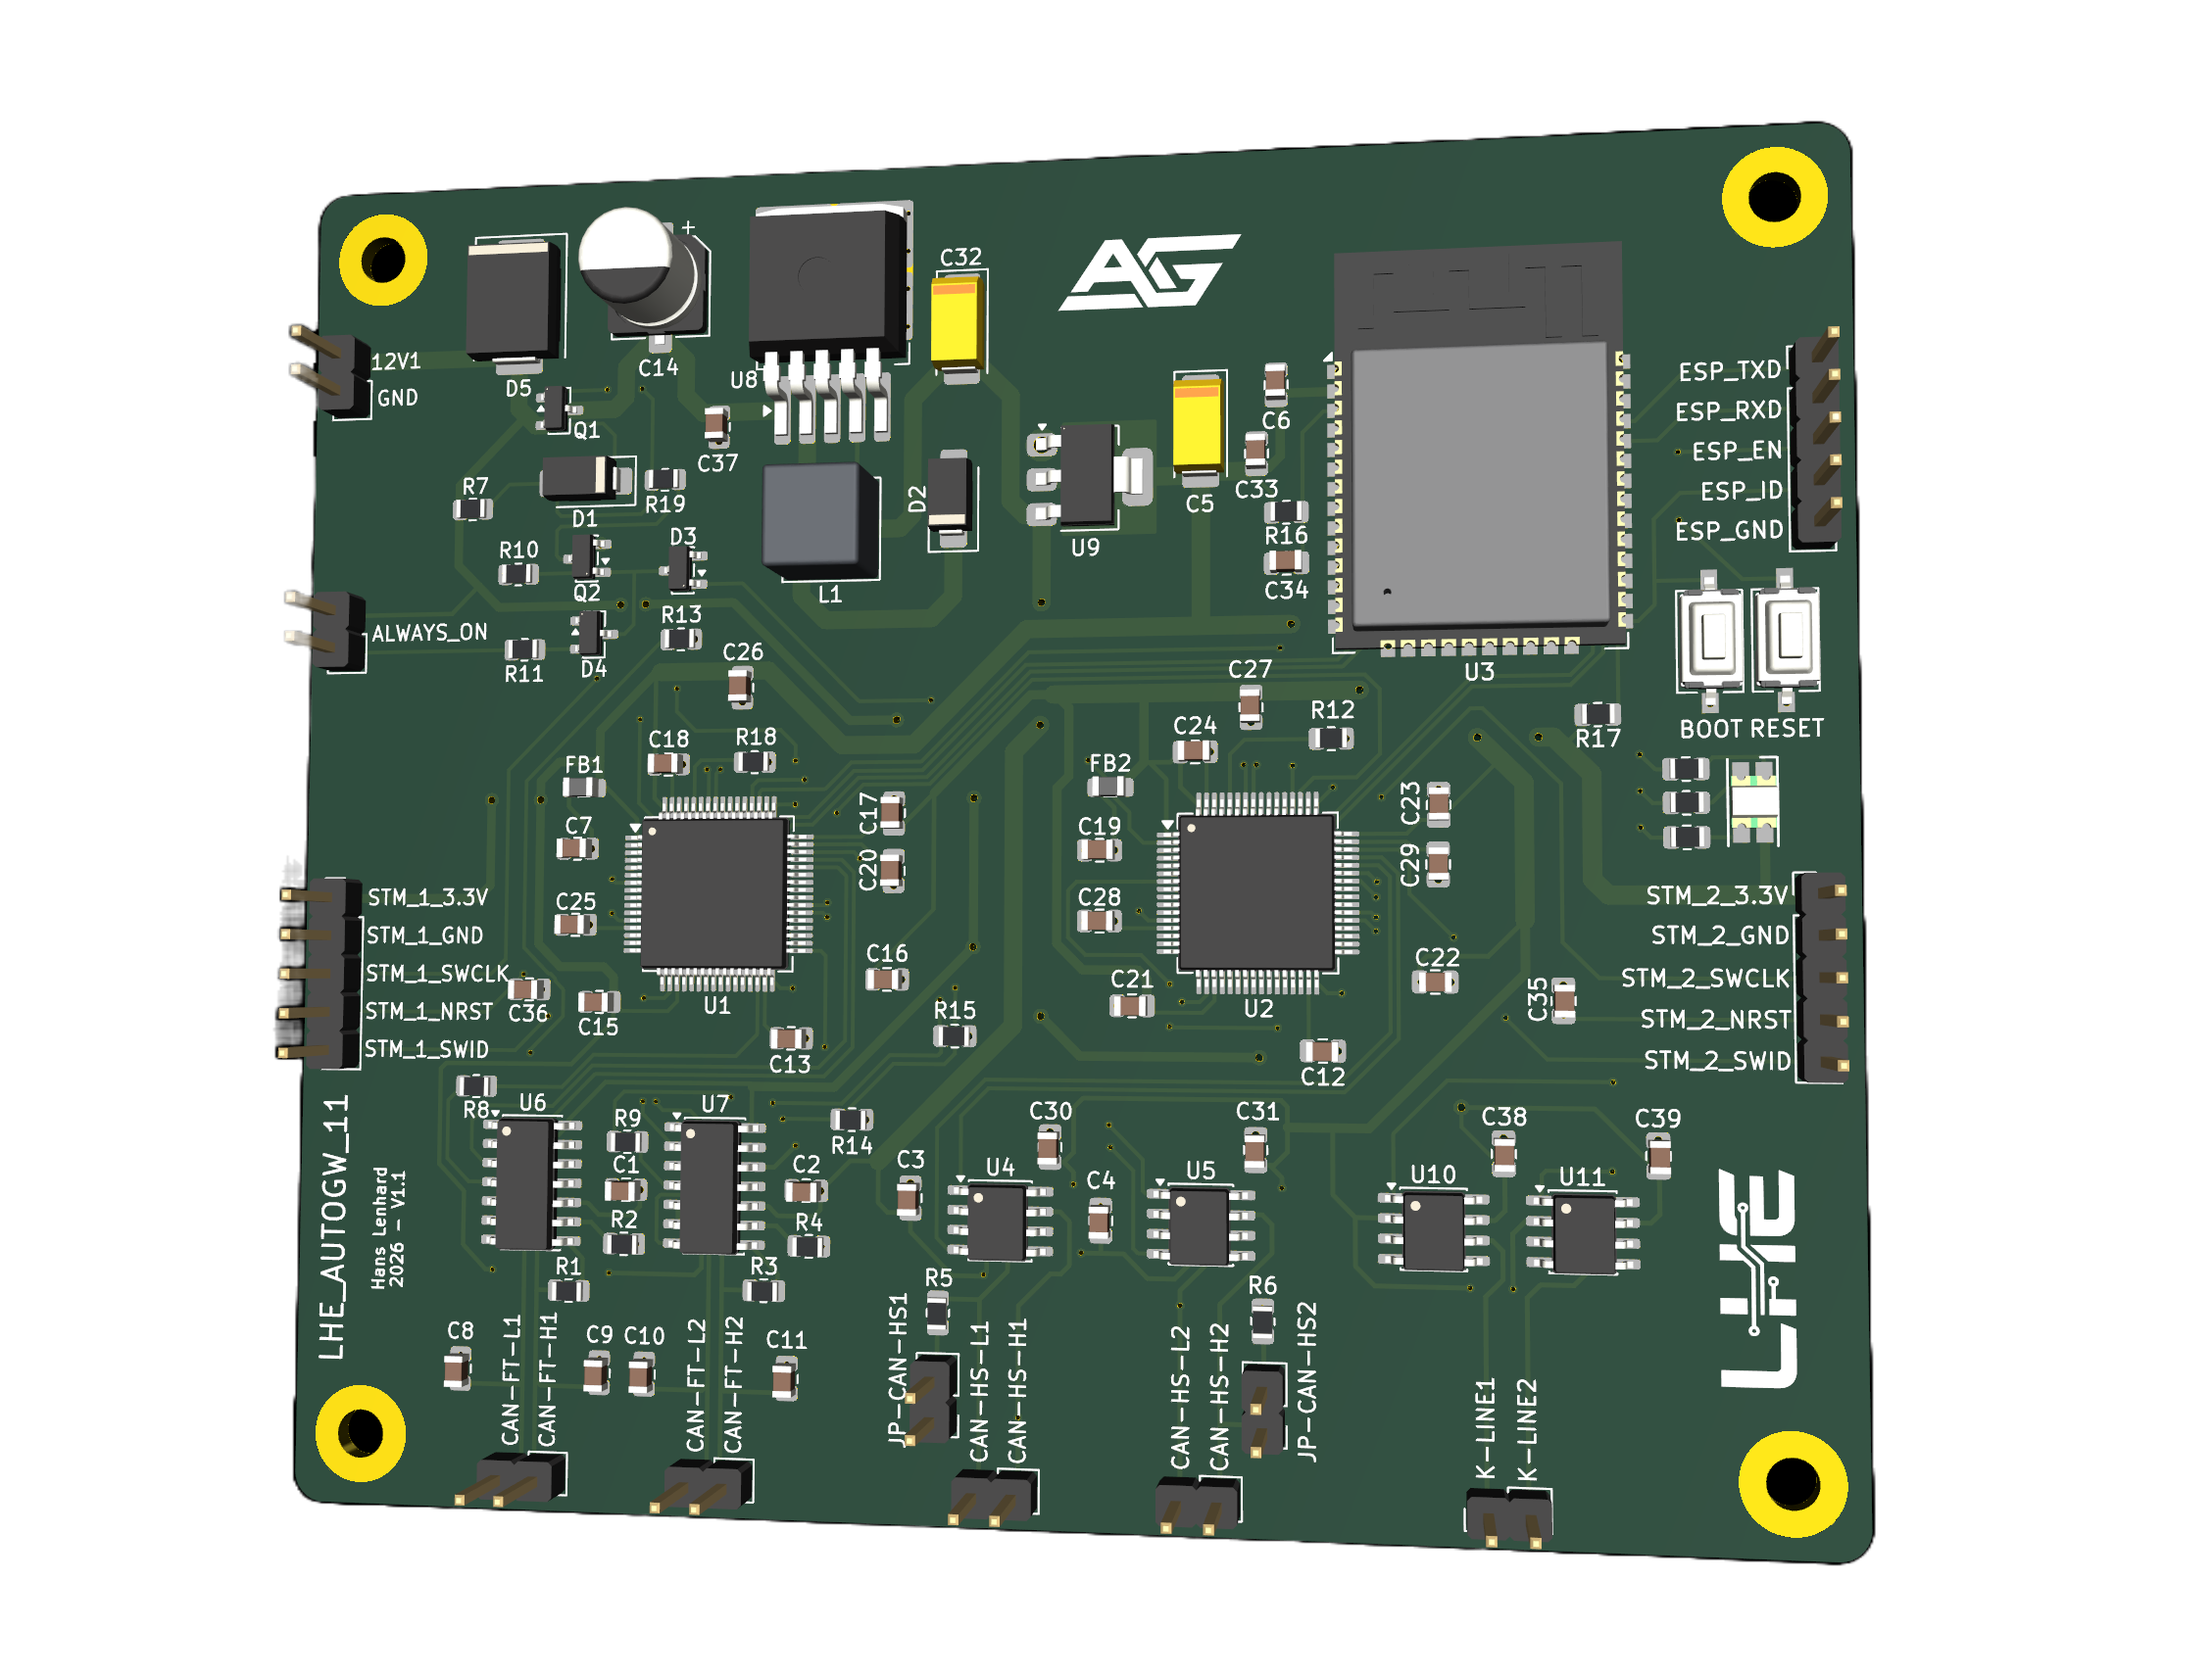
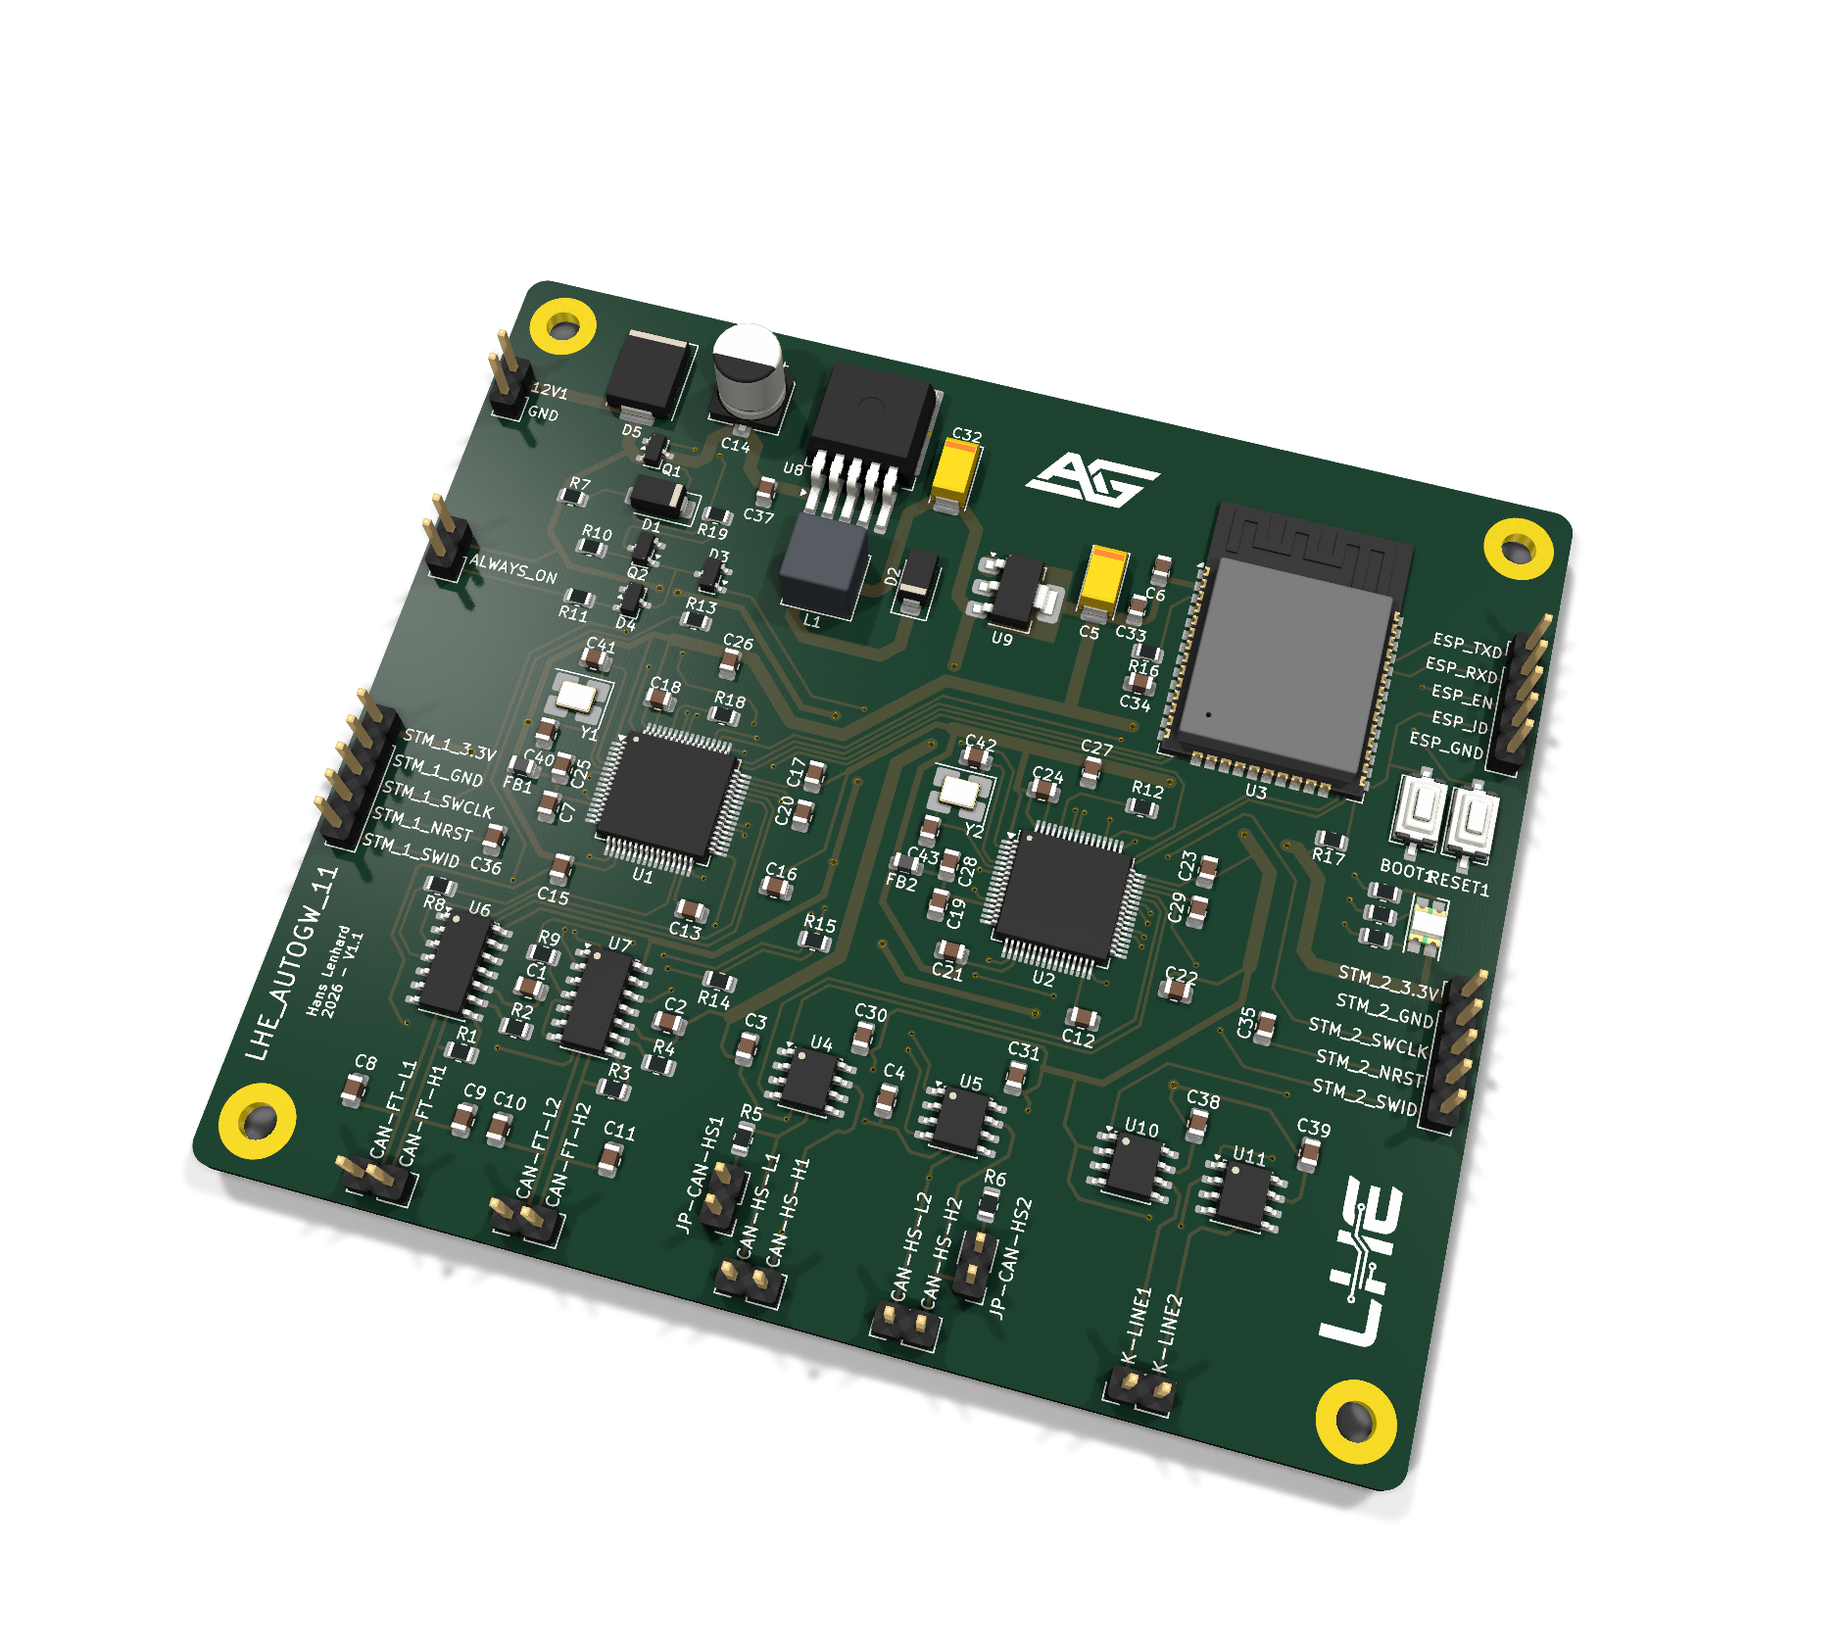
docs: update README with HSE quartz crystals and refresh 3D render

diff --git a/README.md b/README.md
@@ -120,6 +120,10 @@ To prevent 12V battery drain when permanently installed in a vehicle, the module
   - **High-Speed CAN (HS-CAN / CAN FD)**: 2× NXP `TJA1044GT-3` transceivers (ISO 11898-2:2016, CAN FD ready up to 5 Mbps) with switchable 120 Ω bus termination.
   - **Fault-Tolerant Low-Speed CAN (FT-CAN)**: 2× NXP `TJA1055T/3` transceivers (ISO 11898-3, up to 125 kbps) with single-wire fallback and automatic wake-up signaling.
   - **Dual K-Line / LIN (ISO 9141-2 / ISO 14230 / LIN 2.x)**: 2× NXP `TJA1021xT` transceivers (LIN 2.2A / SAE J2602) supporting OBD-II and KWP2000 diagnostic lines up to 20 kbaud.
+- **High-Precision External Quartz Clocking (HSE)**:
+  - Dedicated 8.000 MHz SMD-3225 4-pin quartz crystals (`Y1`, `Y2`) with 15 pF C0G load capacitors (`C40`–`C43`) for both STM32F405 MCUs.
+  - Automotive-grade $\pm 10\,\text{ppm}$ clock accuracy, eliminating internal RC oscillator frequency drift across automotive temperature ranges.
+  - **Zero-Error Baud Rate Timing**: Derives an exact 42 MHz APB1 peripheral clock, achieving $0.000\%$ timing error for the critical **83.3333 kBd** Fault-Tolerant CAN standard ($\text{BRP}=28$, $18\,T_q$, $83.33\%$ sample point) as well as exact bit rates for 100k, 125k, 250k, 500k, and 1 MBd HS-CAN / CAN FD.
 - **Wireless Telemetry Co-Processor**:
   - **ESP32-WROOM-32UE** module with 2.4 GHz Wi-Fi (802.11 b/g/n) and Bluetooth v4.2 BR/EDR & BLE.
   - Integrated U.FL external antenna connector for high-gain antenna placement inside vehicle dashboards or engine bays.
@@ -212,6 +216,7 @@ To prevent 12V battery drain when permanently installed in a vehicle, the module
 
 ### Zone 2: MCU #1 – Low-Speed Fault-Tolerant CAN Core
 - **Microcontroller**: `U1` (`STM32F405RGTx` LQFP-64, ARM Cortex-M4 @ 168 MHz).
+- **External Clock Source**: `Y1` (8.000 MHz SMD-3225 4-pin crystal on `PH0-OSC_IN` [Pin 5] and `PH1-OSC_OUT` [Pin 6]) with 15 pF load capacitors `C40` & `C41`.
 - **Transceivers**: `U6` & `U7` (`NXP TJA1055T/3` SOIC-14).
 - **Pin Mapping**:
   - `FT-CAN 1` (Channel 1): RX = `PA11`, TX = `PA12`, Wake Inhibit = `U6 INH`, Error = `U6 ~ERR` (`PB11` via `R8`), Standby = `PC7`, Enable = `PC8`.
@@ -223,6 +228,7 @@ To prevent 12V battery drain when permanently installed in a vehicle, the module
 
 ### Zone 3: MCU #2 – High-Speed CAN & Dual K-Line Core
 - **Microcontroller**: `U2` (`STM32F405RGTx` LQFP-64, ARM Cortex-M4 @ 168 MHz).
+- **External Clock Source**: `Y2` (8.000 MHz SMD-3225 4-pin crystal on `PH0-OSC_IN` [Pin 5] and `PH1-OSC_OUT` [Pin 6]) with 15 pF load capacitors `C42` & `C43`.
 - **High-Speed Transceivers**: `U4` & `U5` (`NXP TJA1044GT-3` SOIC-8).
 - **K-Line Transceivers**: `U10` & `U11` (`NXP TJA1021xT` SOIC-8).
 - **Pin Mapping**:
@@ -321,6 +327,7 @@ All external signals, power, bus lines, and programming ports are brought out to
 | **`D6`** | `LED_RGBA` | SMD 1210 (Common Anode) | 1 | RGB Status & Diagnostic Indicator LED |
 | **`L1`** | `33-68 µH` | Bourns SRP6060FA (SMD Inductor) | 1 | Power Inductor for LM2596 Buck Converter |
 | **`FB1`, `FB2`** | `Ferrite Bead` | SMD 0805 | 2 | High-Frequency Analog Noise Filtering Beads (`VDDA`) |
+| **`Y1`, `Y2`** | `8.000 MHz` | SMD-3225 4-Pin (HandSoldering) | 2 | High-Precision HSE Quartz Crystals (±10 ppm, 15 pF CL) |
 | **`RESET`, `BOOT`** | `PTS636Sx25` | Tactile Switch SMD | 2 | Push buttons for ESP32 Hardware Reset & Boot Mode |
 | **`R5`, `R6`** | `120 Ω` | SMD 0805 (1%) | 2 | High-Speed CAN Bus Termination Resistors |
 | **`R1` - `R4`** | `560 Ω` | SMD 0805 (1%) | 4 | Fault-Tolerant CAN Bias/Termination Resistors |
@@ -334,6 +341,7 @@ All external signals, power, bus lines, and programming ports are brought out to
 | **`C26`, `C27`** | `4.7 µF` | SMD 0805 | 2 | Power Rail Filtering Capacitors |
 | **`C25`, `C28`, `C34`** | `1 µF` | SMD 0805 | 3 | Logic Decoupling Capacitors |
 | **`C1` - `C4`, `C6`, `C7`, `C15` - `C19`, `C21` - `C24`, `C30`, `C31`, `C33`, `C35` - `C39` | `100 nF` | SMD 0805 | 22 | Local IC Decoupling Ceramic Capacitors |
+| **`C40` - `C43`** | `15 pF` | SMD 0805 (C0G/NP0) | 4 | Crystal Load Capacitors (HSE Oscillators) |
 | **`12V1`, `J3`, `CAN-HS1/2`, `CAN-FT1/2`, `JP-CAN-HS1/2`, `K-LINE1`** | `Conn_01x02_Pin` | 2.54 mm Pin Header (1×02) | 8 | External Power, Bus & Termination Headers |
 | **`STM_FLASH1`, `STM_FLASH2`, `ESP_FLASH1`** | `Conn_01x05_Pin` | 2.54 mm Pin Header (1×05) | 3 | Programming and SWD Debug Headers |
 | **`H1` - `H4`** | `MountingHole_Pad` | 3.2 mm Diameter (M3 Pad) | 4 | Grounded Chassis M3 Mounting Holes |
@@ -350,7 +358,7 @@ All external signals, power, bus lines, and programming ports are brought out to
 - **Ground Planes**: Continuous, low-impedance ground fill on the bottom layer with stitched return paths for high-frequency CAN differential lines.
 - **Mounting**: 4× grounded M3 mounting holes located at the corners.
 - **Footprint Pitch**: Standard 0805 (2012 metric) passive SMD footprints for reliable hand-soldering and prototype assembly.
-- **Total Footprint Count**: 103 placed board footprints.
+- **Total Footprint Count**: 109 placed board footprints.
 
 ---
 
@@ -387,4 +395,4 @@ The board features independent 5-pin SWD headers for each STM32F405 MCU:
 
 - **Hardware Design & Engineering**: Hans Lenhard
 - **Hardware Revision**: V1.1 (2026)
-- **Silkscreen Identification**: `LHE_DCANGW_11`
+- **Silkscreen Identification**: `LHE_AUTOGW_11`
